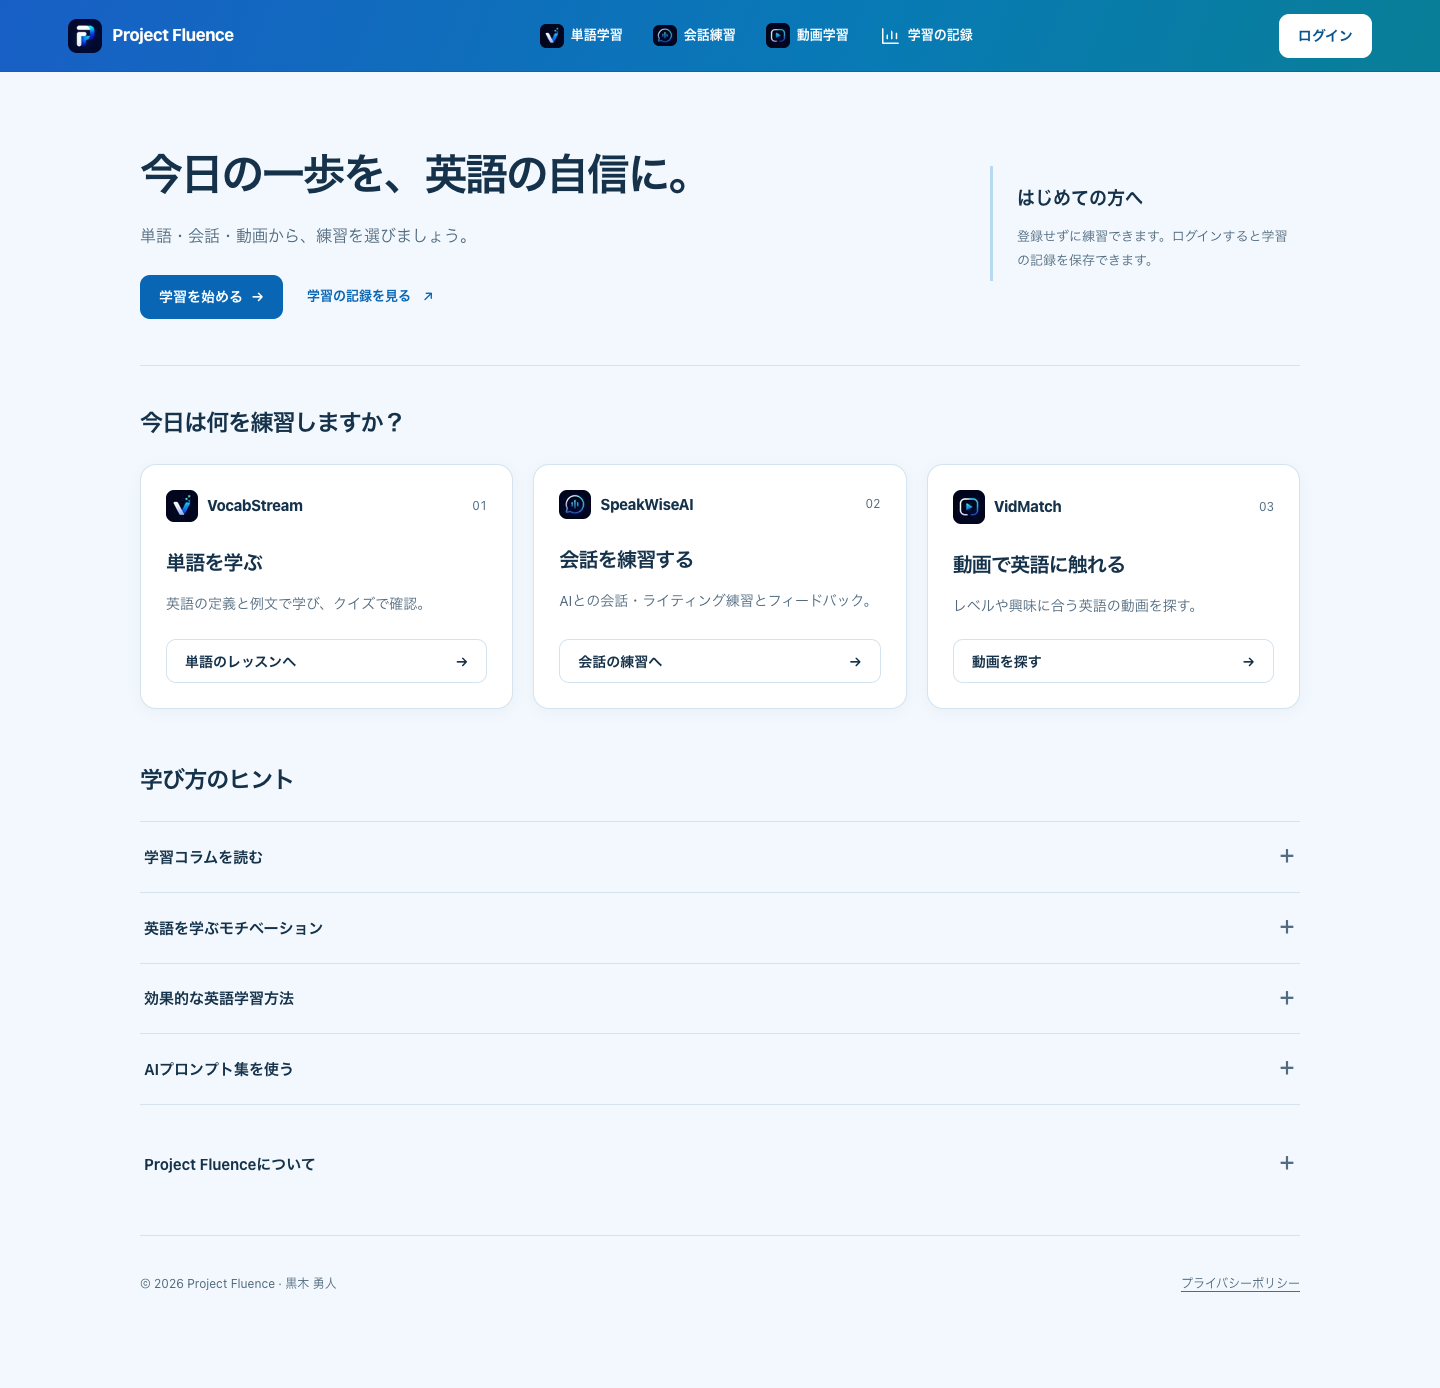
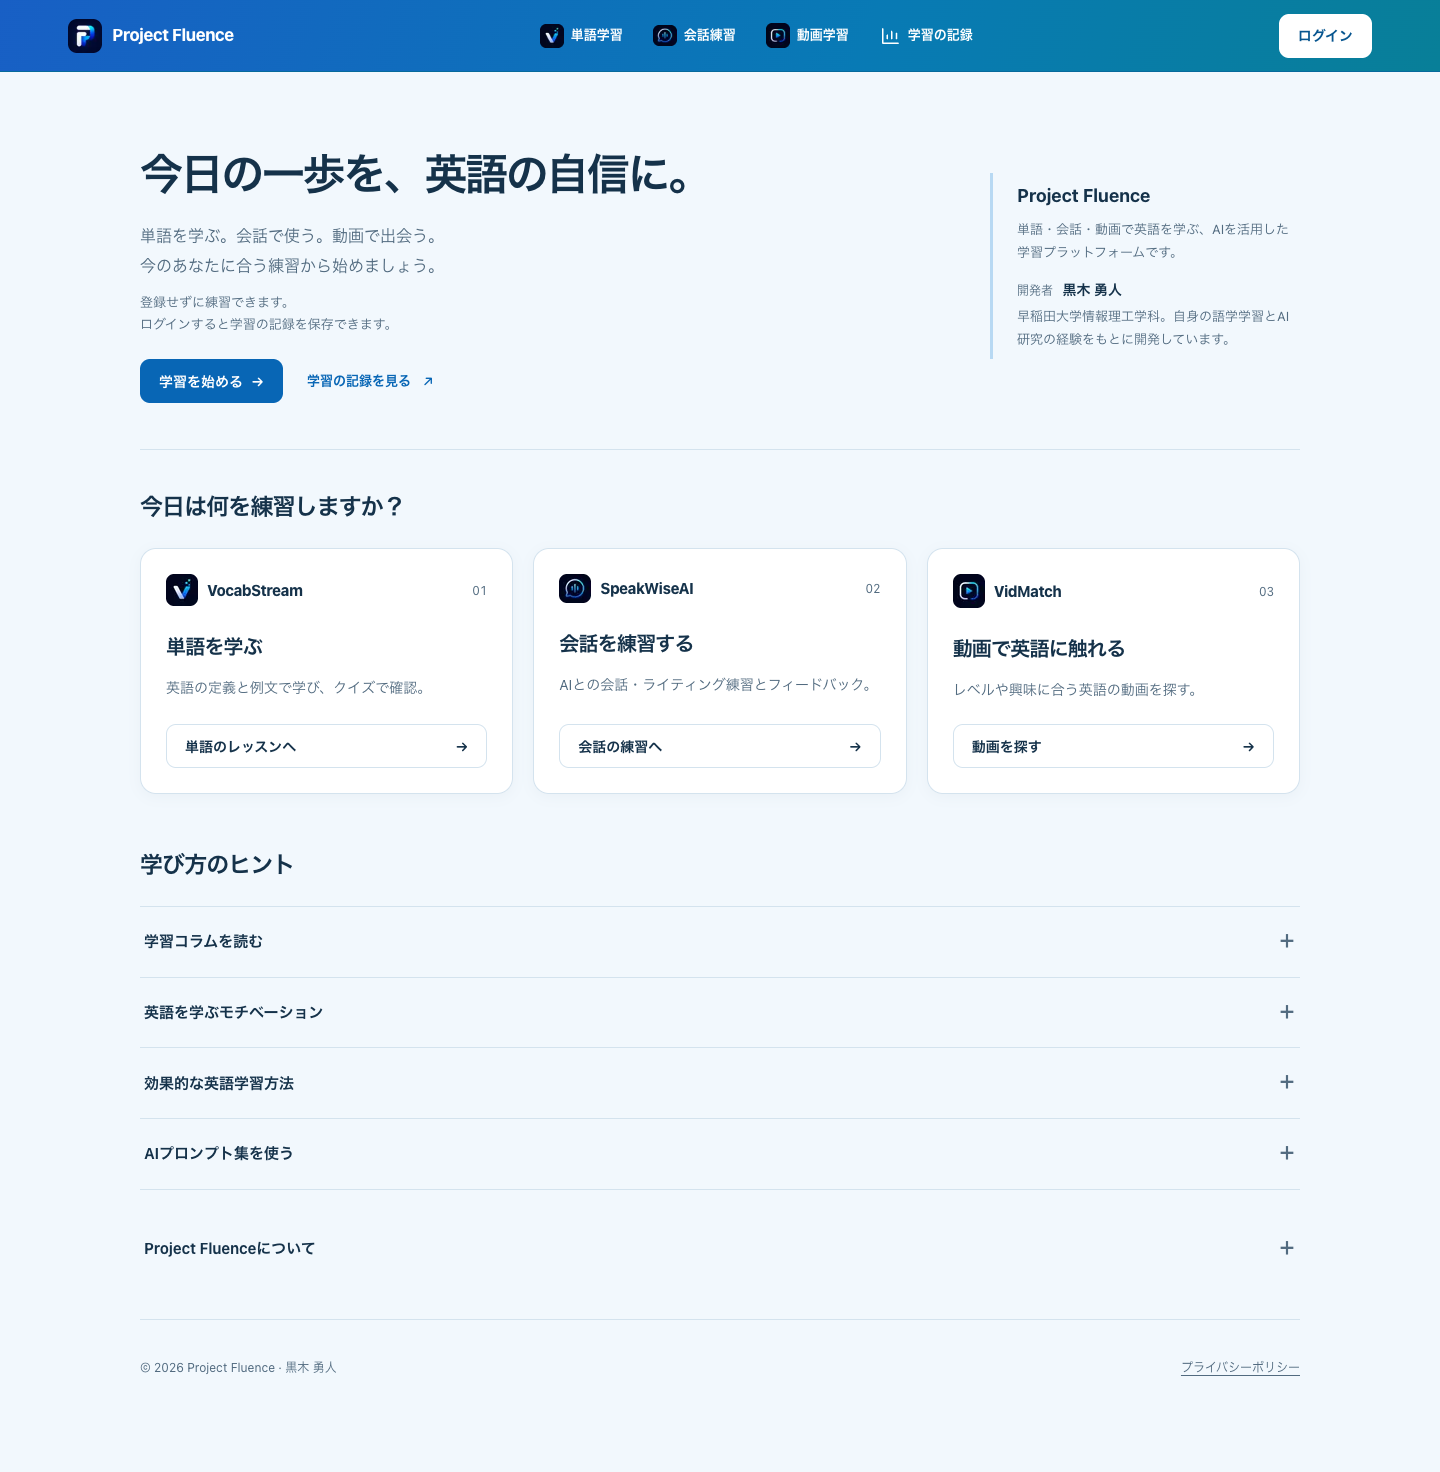
content: introduce Project Fluence and expand developer profile

diff --git a/app/page.tsx b/app/page.tsx
@@ -17,12 +17,15 @@ export default function HomePage() {
       <section className="home-intro" aria-labelledby="home-title">
         <div>
           <h1 id="home-title">今日の一歩を、<br className="home-mobile-break" />英語の自信に。</h1>
-          <p className="home-intro-copy">単語・会話・動画から、練習を選びましょう。</p>
+          <p className="home-intro-copy">単語を学ぶ。会話で使う。動画で出会う。<br />今のあなたに合う練習から始めましょう。</p>
+          <p className="home-account-note">登録せずに練習できます。<br />ログインすると学習の記録を保存できます。</p>
           <div className="home-intro-actions"><Link className="pf-button" href="/vocabstream">学習を始める <span aria-hidden="true">→</span></Link><Link className="home-text-link" href="/analytics">学習の記録を見る <span aria-hidden="true">↗</span></Link></div>
         </div>
-        <aside className="home-start-note">
-          <h2>はじめての方へ</h2>
-          <p>登録せずに練習できます。ログインすると学習の記録を保存できます。</p>
+        <aside className="home-project-intro" aria-labelledby="home-project-title">
+          <h2 id="home-project-title">Project Fluence</h2>
+          <p>単語・会話・動画で英語を学ぶ、AIを活用した学習プラットフォームです。</p>
+          <p className="home-project-author">開発者 <strong>黒木 勇人</strong></p>
+          <p>早稲田大学情報理工学科。自身の語学学習とAI研究の経験をもとに開発しています。</p>
         </aside>
       </section>
       <section id="apps" aria-labelledby="practice-title" className="home-practice">
@@ -39,8 +42,34 @@ export default function HomePage() {
       </section>
       <section className="home-about" aria-labelledby="about-title">
         <details><summary id="about-title">Project Fluenceについて <span aria-hidden="true">＋</span></summary>
-          <div className="home-about-content"><div><h2>英語＋専門分野で、可能性を広げる。</h2><p>Project Fluenceは、開発者の英語学習ノウハウを活用した英語学習プラットフォームです。語彙、会話、動画の学習をつなぎ、英語を通じて夢に近づく人を増やすことを目指しています。</p><p>各アプリは継続的に改善しています。今後は学習データをさらに連携し、より一人ひとりに合う体験を目指します。</p></div>
-          <div><p className="pf-eyebrow">開発者</p><h3>黒木 勇人</h3><p>早稲田大学で情報理工学を学び、AIの研究開発とソフトウェア開発に取り組んでいます。英検1級、TOEFL iBT 116点、TOEIC満点、ケンブリッジ英検C2、Goethe-Zertifikat C2（読む・聞く・話す）を取得。ISEF 2025日本代表。</p><div className="home-about-links"><a href="https://yutokuroki.vercel.app/ja" target="_blank" rel="noopener noreferrer">プロフィール ↗</a><a href="https://www.linkedin.com/in/yutokuroki/" target="_blank" rel="noopener noreferrer">LinkedIn ↗</a><a href="https://note.com/projectfluence" target="_blank" rel="noopener noreferrer">note ↗</a></div></div></div>
+          <div className="home-about-content">
+            <section className="home-about-project" aria-labelledby="home-mission-title">
+              <h2 id="home-mission-title">英語＋専門分野で、可能性を広げる。</h2>
+              <p>Project Fluenceは、開発者の英語学習ノウハウを活用した英語学習プラットフォームです。語彙、会話、動画の学習をつなぎ、英語を通じて夢に近づく人を増やすことを目指しています。</p>
+              <p>各アプリは継続的に改善しています。今後は学習データをさらに連携し、より一人ひとりに合う体験を目指します。</p>
+            </section>
+            <section className="home-developer" aria-labelledby="home-developer-title">
+              <header className="home-developer-heading">
+                <p className="pf-eyebrow">開発者</p>
+                <h2 id="home-developer-title">黒木 勇人 <span lang="en">Yuto Kuroki</span></h2>
+                <p>早稲田大学情報理工学科 · ISEF 2025日本代表</p>
+              </header>
+              <p>Project Fluenceを立ち上げ、英語学習アプリの開発と、noteでの学習方法の発信に取り組んでいます。</p>
+              <div className="home-profile-grid">
+                <section aria-labelledby="home-language-title">
+                  <h3 id="home-language-title">語学学習と発信</h3>
+                  <p>14歳で英検1級に上位1％で合格。TOEFL iBT 116/120、TOEIC 990/990を取得し、ケンブリッジ英検C2 Proficiencyではリーディング・リスニング満点で合格しました。</p>
+                  <p>ドイツ語はGoethe-Zertifikat C2の読む・聞く・話す技能と、C1の書く技能を取得。ゲーテ・インスティトゥート学生新聞の編集にも携わりました。</p>
+                </section>
+                <section aria-labelledby="home-research-title">
+                  <h3 id="home-research-title">AI研究と国際経験</h3>
+                  <p>Nakatani RIESプログラムを通じ、ジョージア工科大学EPIC Labでロボット外骨格向けの深層学習を研究しています。</p>
+                  <p>楽天AI for Businessのインターンでは、英語を主言語とするチームで、AIエージェントの安全性研究と評価実験に取り組みました。</p>
+                </section>
+              </div>
+              <div className="home-about-links"><a href="https://yutokuroki.vercel.app/ja" target="_blank" rel="noopener noreferrer">詳しいプロフィール ↗</a><a href="https://www.linkedin.com/in/yutokuroki/" target="_blank" rel="noopener noreferrer">LinkedIn ↗</a><a href="https://note.com/projectfluence" target="_blank" rel="noopener noreferrer">note ↗</a></div>
+            </section>
+          </div>
         </details>
       </section>
       <footer className="pf-footer"><span>© {new Date().getFullYear()} Project Fluence · 黒木 勇人</span><Link href="/privacy">プライバシーポリシー</Link></footer>

diff --git a/app/home.css b/app/home.css
@@ -2,12 +2,15 @@
 .home-intro { display: grid; grid-template-columns: minmax(0,1fr) 310px; gap: 64px; align-items: center; padding: 12px 0 46px; }
 .home-intro h1 { font-size: clamp(29px,3.1vw,43px); line-height: 1.5; letter-spacing: -.055em; font-weight: 750; margin: 14px 0; }
 .home-intro-copy { color: var(--pf-muted); font-size: 16px; line-height: 1.9; }
+.home-account-note { color: var(--pf-muted); font-size: 13px; line-height: 1.7; margin-top: 10px; }
 .home-intro-actions { display: flex; flex-wrap: wrap; align-items: center; gap: 12px 24px; margin-top: 24px; }
 .home-text-link { display: inline-flex; align-items: center; gap: 12px; min-height: 44px; color: var(--pf-primary); font-size: 13px; font-weight: 600; }
 .home-text-link:hover { text-decoration: underline; }
-.home-start-note { border-left: 3px solid var(--pf-primary-border); padding: 8px 0 8px 24px; }
-.home-start-note h2 { font-size: 18px; font-weight: 650; margin: 10px 0; }
-.home-start-note p { font-size: 13px; color: var(--pf-muted); line-height: 1.9; }
+.home-project-intro { border-left: 3px solid var(--pf-primary-border); padding: 8px 0 8px 24px; }
+.home-project-intro h2 { font-size: 18px; font-weight: 700; margin: 0 0 8px; }
+.home-project-intro p { font-size: 13px; color: var(--pf-muted); line-height: 1.75; }
+.home-project-intro .home-project-author { margin-top: 14px; margin-bottom: 3px; font-size: 12px; }
+.home-project-author strong { color: var(--pf-text); font-size: 14px; font-weight: 650; margin-left: 6px; }
 .home-section-heading { display: flex; justify-content: space-between; gap: 16px; align-items: end; margin-bottom: 22px; }
 .home-section-heading h2 { font-size: 23px; font-weight: 700; letter-spacing: -.04em; margin-top: 6px; }
 .home-practice { border-top: 1px solid var(--pf-border); padding-top: 32px; }
@@ -32,9 +35,16 @@
 .home-resource-content .shadow, .home-resource-content .shadow-sm { box-shadow: none; }
 .home-resource-content a { text-underline-offset: 3px; }
 .home-about { margin-top: 24px; }
-.home-about-content { display: grid; grid-template-columns: 1fr 1fr; gap: 36px; padding: 16px 4px; color: var(--pf-muted); font-size: 13px; }
+.home-about-content { padding: 16px 4px; color: var(--pf-muted); font-size: 14px; line-height: 1.85; }
 .home-about-content h2, .home-about-content h3 { color: var(--pf-text); font-size: 17px; font-weight: 650; margin-bottom: 10px; }
 .home-about-content p + p { margin-top: 12px; }
+.home-about-project { max-width: 800px; }
+.home-developer { border-top: 1px solid var(--pf-border); margin-top: 24px; padding-top: 24px; }
+.home-developer-heading { margin-bottom: 12px; }
+.home-developer-heading h2 { display: flex; align-items: baseline; flex-wrap: wrap; gap: 8px 14px; font-size: 22px; margin: 4px 0; }
+.home-developer-heading h2 span { font-size: 13px; font-weight: 500; color: var(--pf-muted); }
+.home-developer-heading > p:last-child { font-size: 13px; }
+.home-profile-grid { display: grid; grid-template-columns: repeat(2, minmax(0,1fr)); gap: 32px; margin-top: 22px; }
 .home-about-links { display: flex; gap: 18px; flex-wrap: wrap; margin-top: 12px; }
 .home-about-links a { display: inline-flex; align-items: center; min-height: 44px; color: var(--pf-primary); text-decoration: underline; }
 .home-mobile-break { display: none; }
@@ -45,7 +55,9 @@
   .home-intro h1 { margin: 8px 0; line-height: 1.35; }
   .home-intro-actions { margin-top: 14px; }
   .home-intro-copy { font-size: 14px; }
-  .home-start-note { display: none; }
+  .home-project-intro { margin-top: 20px; padding: 0 0 0 12px; }
+  .home-project-intro h2 { font-size: 16px; margin-bottom: 4px; }
+  .home-project-intro .home-project-author { margin-top: 8px; }
   .home-practice { padding-top: 18px; }
   .home-practice-grid { grid-template-columns: 1fr; gap: 10px; }
   .home-practice-card { padding: 16px; }
@@ -58,6 +70,8 @@
   .home-guide { margin-top: 24px; }
   .home-resource summary, .home-about summary { padding-block: 12px; min-height: 48px; }
   .home-resource-content { padding: 4px 4px 24px; }
-  .home-about-content { grid-template-columns: 1fr; gap: 24px; }
+  .home-about-content { padding-top: 12px; }
+  .home-developer { margin-top: 20px; padding-top: 20px; }
+  .home-profile-grid { grid-template-columns: 1fr; gap: 20px; margin-top: 18px; }
 }
 @media (max-width: 420px) { .home-mobile-break { display: inline; } .home-intro h1 { font-size: 27px; } .home-intro-actions { gap: 8px 16px; } }

diff --git a/docs/frontend-refinement.md b/docs/frontend-refinement.md
@@ -83,3 +83,7 @@ Small-screen navigation now takes 88px instead of 108px; widths 900–1099px use
 Removed redundant promotional lines, duplicate instructions, and decorative section labels across the home, course catalog, lesson list, speaking setup, video search, and progress pages. Functional help, learning material, progress feedback, and error/account states remain available. Lesson intros put the word preview and start actions first; word audio shares the word-heading row, and quiz controls and concise feedback use less space. Optional settings and word details remain discoverable without taking space ahead of primary actions. New question/word focus restores visibility only when the heading is offscreen or behind the sticky banner.
 
 Measured on a 320×568px Chromium viewport, the vocabulary lesson start button moved from y=1084 to y=422, the speaking start button from y=566 to y=384, and video search from y=840 to y=457. These are the first beginner lesson and default speaking/video setups; longer learning content still flows naturally. No learning content is truncated to fit a viewport.
+
+## Home introduction and developer profile — 2026-09-29
+
+The home introduction now separates practical learning guidance on the left from a brief Project Fluence and developer introduction on the right. On phones, the brief introduction follows the primary learning action. The existing bottom disclosure contains the fuller profile, grouped into language learning and AI/international experience. Relevant credentials and experience were selected from the developer's [Japanese profile](https://yutokuroki.vercel.app/ja); German qualifications retain the distinction between C2 reading/listening/speaking and C1 writing. A direct profile link joins the existing LinkedIn and note links. The expanded content remains collapsed by default to preserve the short route into practice.

diff --git a/docs/frontend-validation.md b/docs/frontend-validation.md
@@ -35,6 +35,13 @@ Representative rendered previews: [desktop home](previews/home-desktop.png), [32
 - Speaking, video, and progress workflows passed with deterministic fixtures; the speaking composer remains reachable at 320×568px and in phone landscape. Optional video skill filters retain their selected values when closed and reopened.
 - Preview images were refreshed from the final production build. Existing physical-device and live-service limitations below still apply.
 
+## Home introduction and developer profile — 2026-09-29
+
+- Replaced the beginner note with a short Project Fluence/developer introduction, and moved guest/login guidance beneath the learning introduction. Expanded the bottom profile using relevant language-learning, AI research, and international experience from the [developer's profile](https://yutokuroki.vercel.app/ja).
+- Production build, TypeScript, and ESLint pass. Targeted production-browser checks passed at 320, 375, 390, 430, 600, 768, 899, 900, 1024, 1180, 1440, and 1920px, with the profile both closed and expanded: no horizontal overflow or runtime errors, and correct placement of the guest guidance.
+- The primary learning action remains visible at 320×568px. The profile disclosure opens and closes by keyboard, and expanded-page Axe checks report no violations at 320, 768, and 1440px.
+- Visually reviewed phone, tablet, and desktop layouts. The fuller profile uses two columns on larger screens and one on phones, and stays collapsed initially. Updated previews: [desktop home](previews/home-desktop.png), [320px home](previews/home-mobile.png), [expanded desktop profile](previews/home-profile-desktop.png), [expanded mobile profile](previews/home-profile-mobile.png).
+
 ## Running checks
 
 ```sh
